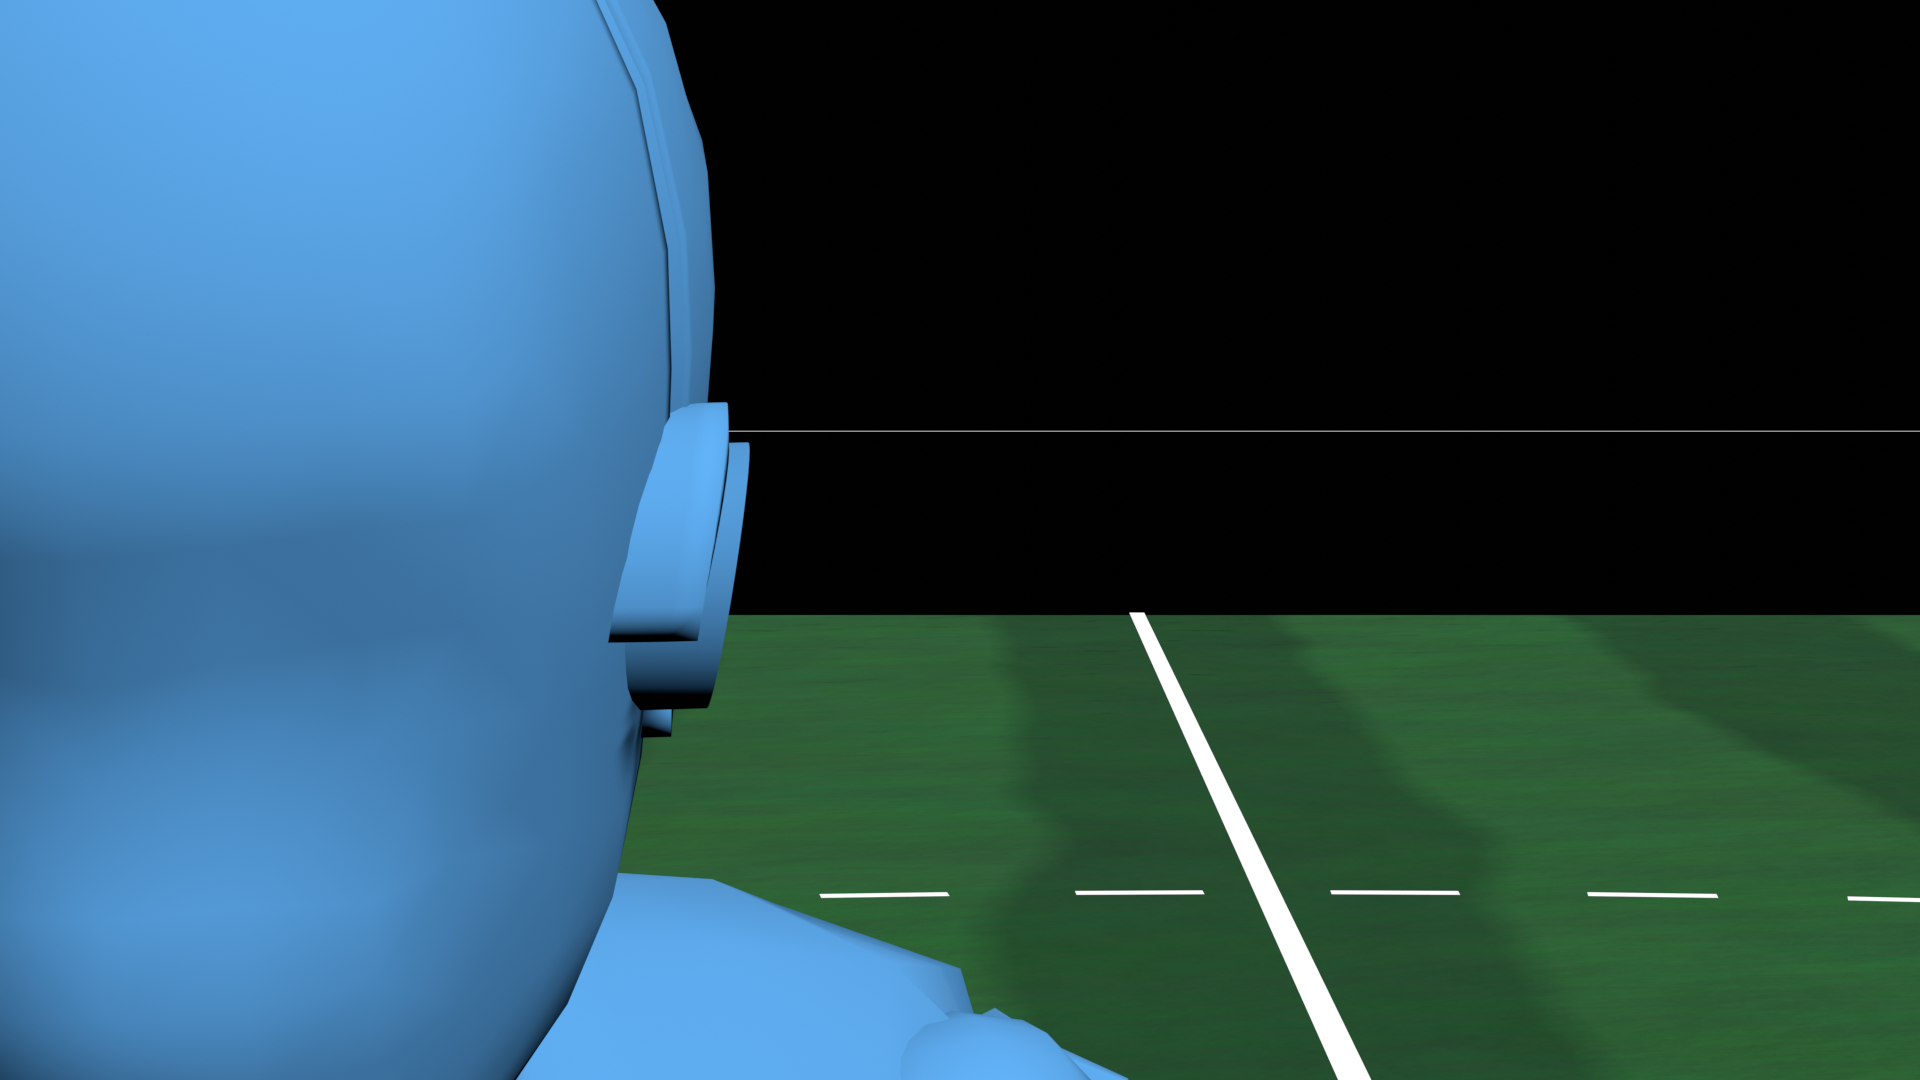
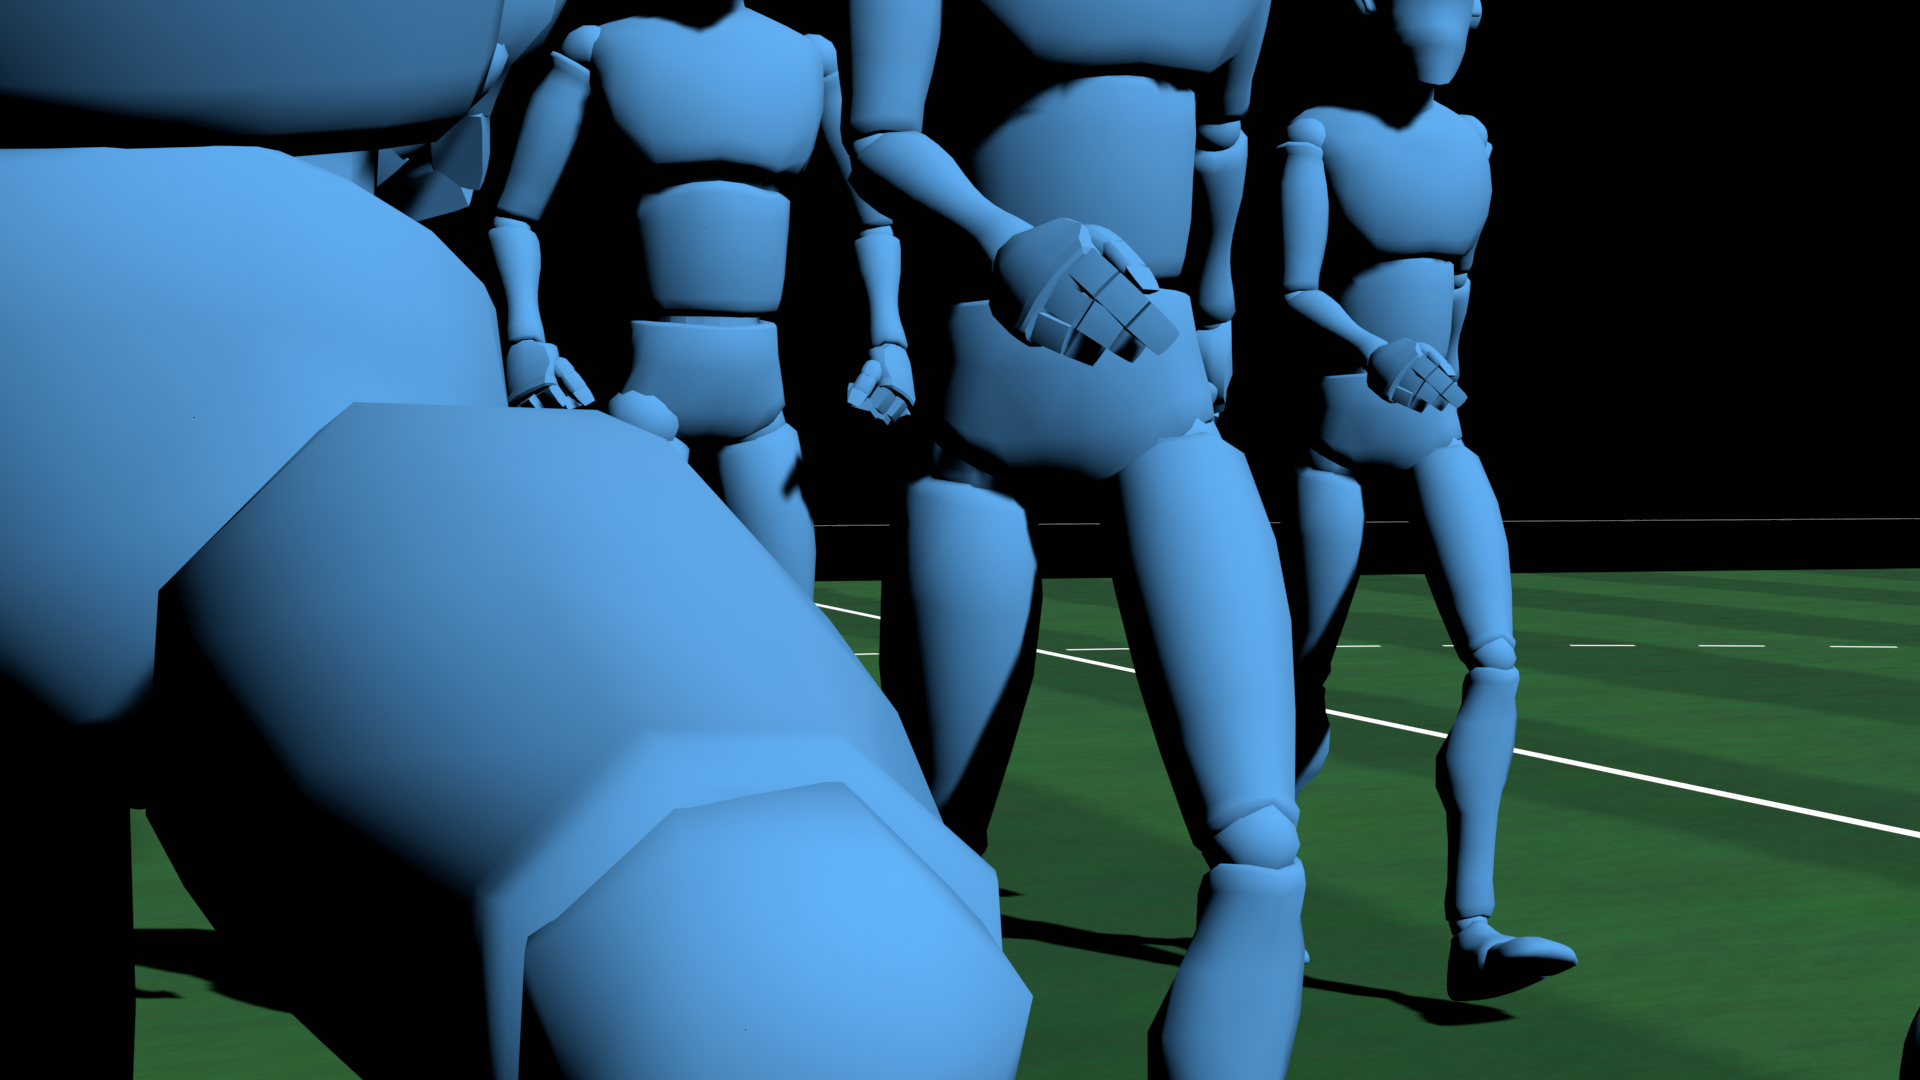
Add more players, ball, and five view renders

diff --git a/blender/scenes/build_part_field.py b/blender/scenes/build_part_field.py
@@ -40,6 +40,23 @@ SPOT_R = 0.12 * _SCALE
 RENDER_DIR = Path("/workspace/blender/renders/parts")
 
 
+def make_ball_material(name: str) -> bpy.types.Material:
+    mat = bpy.data.materials.new(name=name)
+    mat.use_nodes = True
+    nodes = mat.node_tree.nodes
+    links = mat.node_tree.links
+    nodes.clear()
+    out = nodes.new("ShaderNodeOutputMaterial")
+    bsdf = nodes.new("ShaderNodeBsdfPrincipled")
+    bsdf.inputs["Base Color"].default_value = (0.96, 0.96, 0.96, 1.0)
+    bsdf.inputs["Roughness"].default_value = 0.35
+    spec = bsdf.inputs.get("Specular IOR Level") or bsdf.inputs.get("Specular")
+    if spec:
+        spec.default_value = 0.35
+    links.new(bsdf.outputs["BSDF"], out.inputs["Surface"])
+    return mat
+
+
 def make_grass_material(name: str) -> bpy.types.Material:
     """芝生 — 刈り跡ストライプ + ノイズ"""
     mat = bpy.data.materials.new(name=name)
@@ -261,12 +278,29 @@ def build_field_only() -> None:
         add_circle_ring(f"Corner_{label}", ox, oy, CORNER_R, white, lz, 20, a0, a1)
 
     from build_goal import build_both_goals  # noqa: E402
-    from import_mannequiny import build_two_characters  # noqa: E402
+    from import_mannequiny import build_team  # noqa: E402
 
     build_both_goals(half_l)
-    build_two_characters()
+    # チーム配置（センター付近の簡易フォーメーション）
+    blue_positions = [
+        Vector((-10, -6, 0)), Vector((-8, -2, 0)), Vector((-8, 2, 0)),
+        Vector((-5, -3, 0)), Vector((-5, 3, 0)),
+    ]
+    red_positions = [
+        Vector((10, 6, 0)), Vector((8, 2, 0)), Vector((8, -2, 0)),
+        Vector((5, 3, 0)), Vector((5, -3, 0)),
+    ]
+    build_team("Blue", (0.12, 0.45, 0.95, 1.0), blue_positions, actions=["run", "walk", "idle"], facing_yaw=0.0)
+    build_team("Red", (0.92, 0.18, 0.15, 1.0), red_positions, actions=["fight_kick", "run", "idle"], facing_yaw=math.pi)
 
-    print(f"Field: {PITCH_LENGTH:.1f}x{PITCH_WIDTH:.1f}m FIFA markings + grass stripes + 2 goals + 2 players")
+    # ボール（センターライン付近）
+    ball_mat = make_ball_material("Ball")
+    bpy.ops.mesh.primitive_uv_sphere_add(segments=24, ring_count=16, radius=0.22 * _SCALE, location=(0, 0, 0.22 * _SCALE))
+    ball = bpy.context.active_object
+    ball.name = "Ball"
+    ball.data.materials.append(ball_mat)
+
+    print(f"Field: {PITCH_LENGTH:.1f}x{PITCH_WIDTH:.1f}m FIFA markings + grass stripes + 2 goals + players")
 
 
 def _remove_cameras() -> None:
@@ -442,9 +476,7 @@ def render_players() -> Path:
 
 
 def render_players_close() -> Path:
-    """腰上アップ — 顔・服シルエット"""
-    from build_player import S  # noqa: E402
-
+    """選手アップ — リグ素材の動き確認用"""
     scene = bpy.context.scene
     scene.render.engine = "BLENDER_EEVEE"
     scene.render.resolution_x = 1920
@@ -457,18 +489,70 @@ def render_players_close() -> Path:
     cam_data = bpy.data.cameras.new("CamPlayersClose")
     cam = bpy.data.objects.new("CamPlayersClose", cam_data)
     bpy.context.collection.objects.link(cam)
-    # 頭〜胴が入るよう、やや引きで上を見る
-    target = Vector((-1.8, 0.2, 1.45 * S))
-    cam.location = Vector((-1.8, -3.5, 1.55 * S))
+    # 青チーム付近をアップ
+    target = Vector((-8.0, -2.0, 2.0))
+    cam.location = Vector((-10.0, -9.0, 2.2))
     cam.rotation_euler = (target - cam.location).to_track_quat("-Z", "Y").to_euler()
     scene.camera = cam
-    cam.data.lens = 85
+    cam.data.lens = 55
 
     out = RENDER_DIR / "players_close.png"
     scene.render.filepath = str(out)
     bpy.ops.render.render(write_still=True)
     print(f"Players close: {out}")
     return out
+
+
+def render_views_5() -> list[Path]:
+    """5パターン画角で確認用レンダーをまとめて出す"""
+    outs: list[Path] = []
+    outs.append(render_wide())
+
+    # 低い引き（全体）
+    scene = bpy.context.scene
+    scene.render.engine = "BLENDER_EEVEE"
+    scene.render.resolution_x = 1920
+    scene.render.resolution_y = 1080
+    scene.eevee.taa_render_samples = 80
+    setup_black_world()
+    setup_lights()
+    _remove_cameras()
+    cam_data = bpy.data.cameras.new("CamLowWide")
+    cam = bpy.data.objects.new("CamLowWide", cam_data)
+    bpy.context.collection.objects.link(cam)
+    cam.location = Vector((0, -40, 6.5))
+    target = Vector((0, 0, 1.6))
+    cam.rotation_euler = (target - cam.location).to_track_quat("-Z", "Y").to_euler()
+    scene.camera = cam
+    cam.data.lens = 36
+    out = RENDER_DIR / "view_02_low_wide.png"
+    scene.render.filepath = str(out)
+    bpy.ops.render.render(write_still=True)
+    outs.append(out)
+
+    # センター寄り（ボール確認）
+    _remove_cameras()
+    cam_data = bpy.data.cameras.new("CamBall")
+    cam = bpy.data.objects.new("CamBall", cam_data)
+    bpy.context.collection.objects.link(cam)
+    cam.location = Vector((6, -10, 2.2))
+    target = Vector((0, 0, 0.8))
+    cam.rotation_euler = (target - cam.location).to_track_quat("-Z", "Y").to_euler()
+    scene.camera = cam
+    cam.data.lens = 55
+    out = RENDER_DIR / "view_03_ball.png"
+    scene.render.filepath = str(out)
+    bpy.ops.render.render(write_still=True)
+    outs.append(out)
+
+    # ゴール正面（既存）
+    outs.append(render_goal_front("L"))
+
+    # 選手寄り（既存 close）
+    outs.append(render_players_close())
+
+    print("Views5:", ", ".join(p.name for p in outs))
+    return outs
 
 
 def render_goal_close(side: str = "L") -> Path:
@@ -517,6 +601,8 @@ def main() -> None:
     if "--render-players" in sys.argv:
         render_players()
         render_players_close()
+    if "--render-views" in sys.argv:
+        render_views_5()
 
 
 if __name__ == "__main__":

diff --git a/blender/scenes/import_mannequiny.py b/blender/scenes/import_mannequiny.py
@@ -9,7 +9,7 @@ This repo keeps a local copy under `blender/assets/third_party/mannequiny/`.
 from __future__ import annotations
 
 from pathlib import Path
-from typing import Tuple
+from typing import Iterable, List, Tuple
 
 import bpy
 from mathutils import Euler, Vector
@@ -170,4 +170,34 @@ def build_two_characters() -> Tuple[bpy.types.Object, bpy.types.Object]:
 
     print("Players: imported Mannequiny rig + animations (run, fight_kick)")
     return blue, red
+
+
+def build_team(
+    prefix: str,
+    color_rgba,
+    positions: Iterable[Vector],
+    actions: List[str],
+    facing_yaw: float = 0.0,
+) -> List[bpy.types.Object]:
+    """Build multiple characters, cycling through actions."""
+    base_arm, base_mesh = _ensure_loaded()
+    base_arm.hide_viewport = True
+    base_arm.hide_render = True
+    base_mesh.hide_viewport = True
+    base_mesh.hide_render = True
+
+    out: List[bpy.types.Object] = []
+    actions_cycle = list(actions) if actions else ["idle"]
+    for i, pos in enumerate(list(positions)):
+        arm = _duplicate_character(
+            base_arm,
+            base_mesh,
+            name=f"{prefix}_{i+1:02d}",
+            location=pos,
+            rotation=Euler((0, 0, facing_yaw)),
+            color_rgba=color_rgba,
+        )
+        assign_action(arm, actions_cycle[i % len(actions_cycle)])
+        out.append(arm)
+    return out
 
